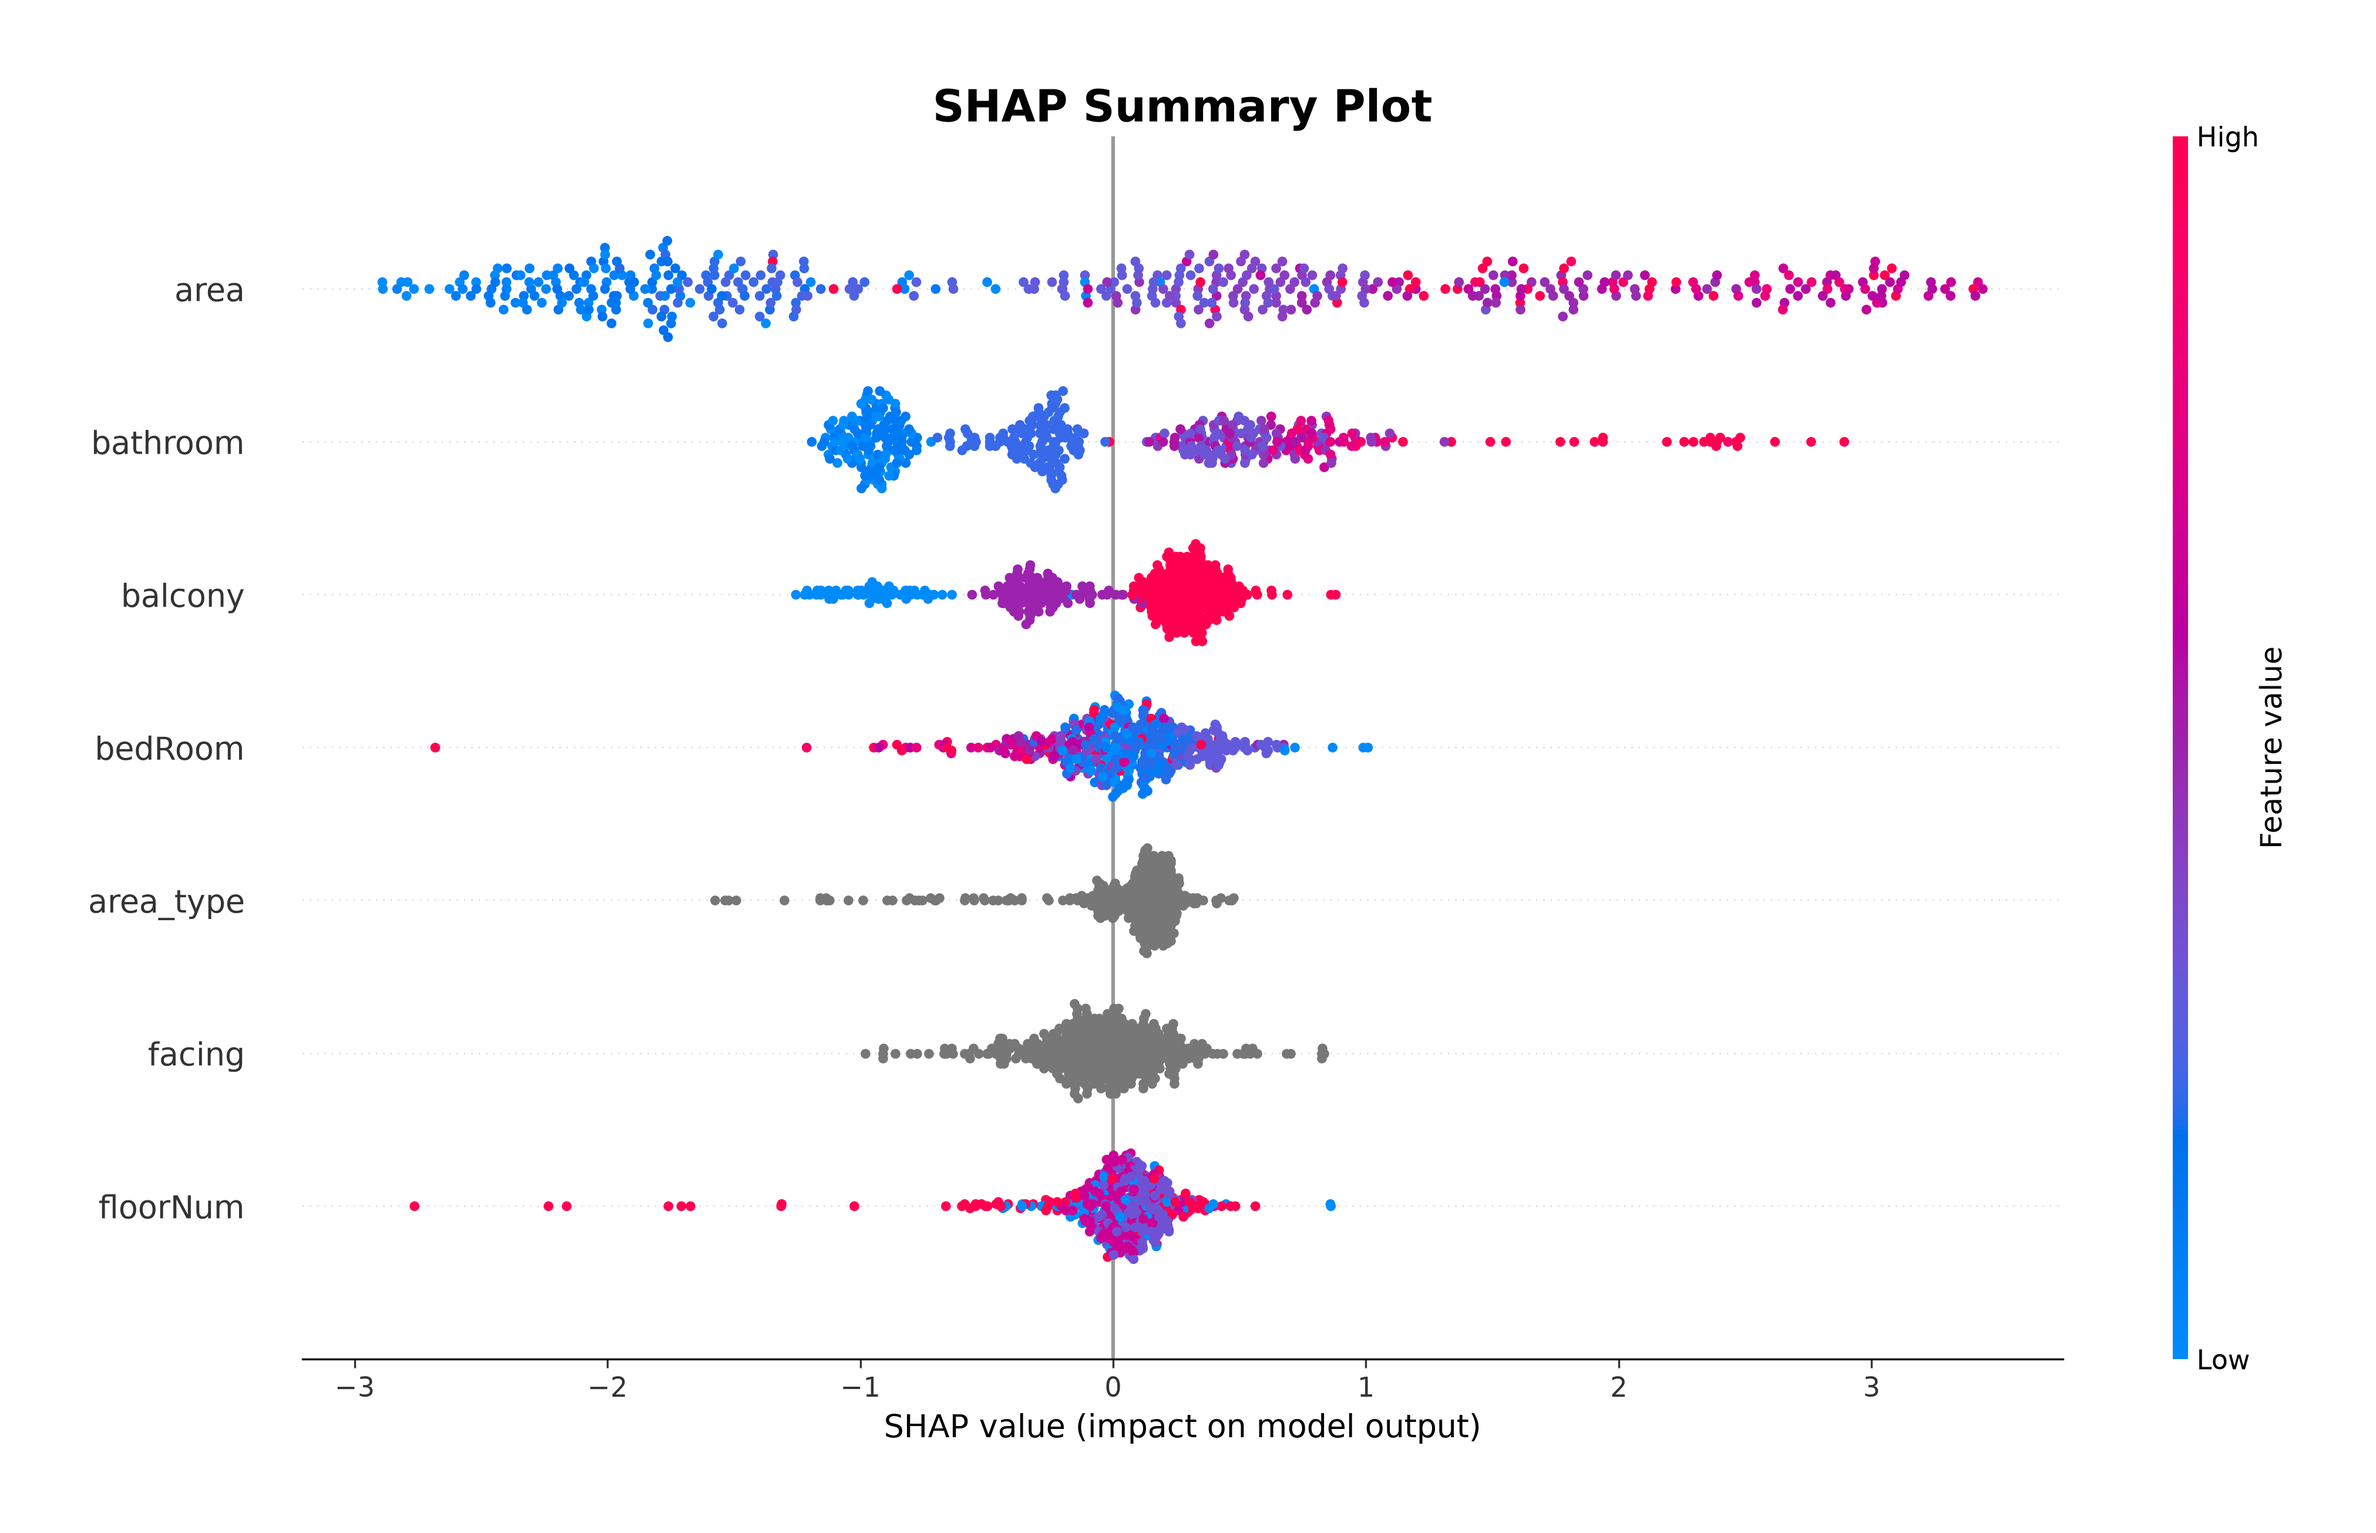
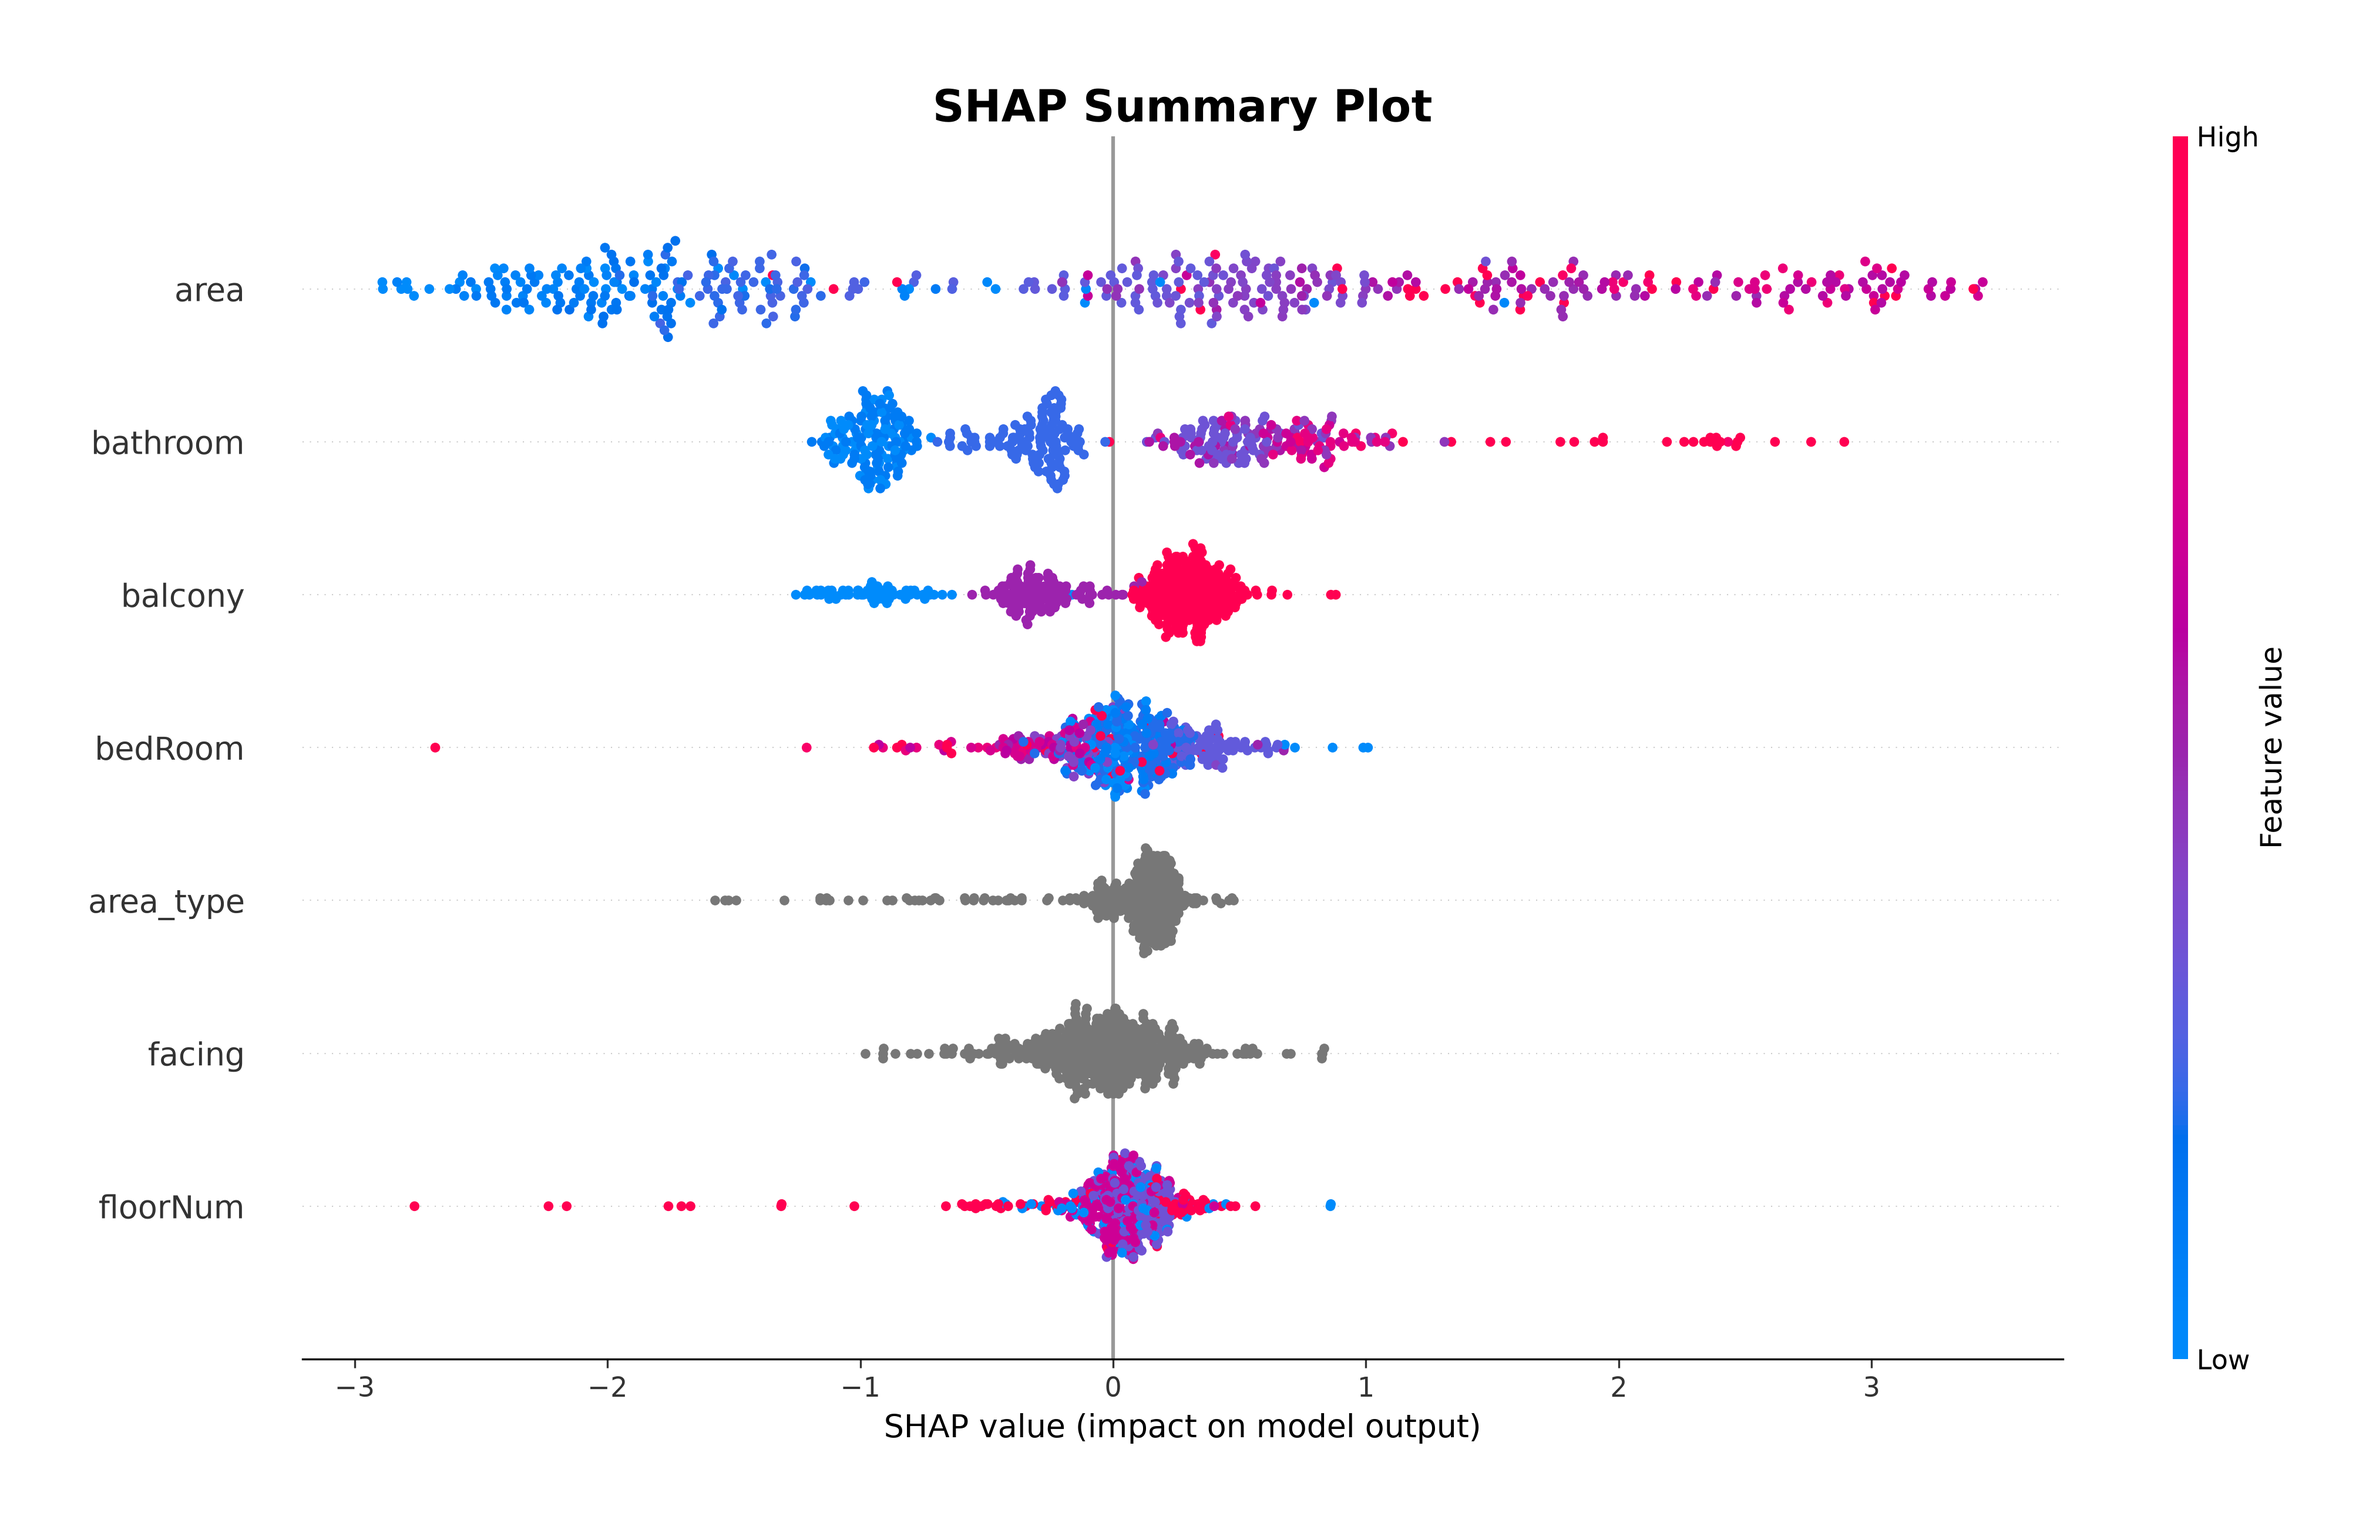
Update Flask app and SHAP visualizations

diff --git a/templates/index.html b/templates/index.html
@@ -51,13 +51,13 @@
 
             width: 92%;
 
-            max-width: 1000px;
+            max-width: 1200px;
 
             margin: 35px auto 50px auto;
 
             background: rgba(255,255,255,0.96);
 
-            padding: 30px;
+            padding: 35px;
 
             border-radius: 20px;
 

diff --git a/app.py b/app.py
@@ -15,10 +15,7 @@ import time
 
 app = Flask(__name__)
 
-
-# ============================================================
 # LOAD MODEL AND SHAP RESOURCES
-# ============================================================
 
 model = pickle.load(
     open("catboost_model.pkl", "rb")
@@ -38,17 +35,11 @@ else:
     background_data = None
 
 
-# ============================================================
 # CREATE SHAP EXPLAINER
-# ============================================================
-
 explainer = shap.TreeExplainer(model)
 
 
-# ============================================================
 # HOME PAGE
-# ============================================================
-
 @app.route("/")
 def home():
 
@@ -57,18 +48,13 @@ def home():
     )
 
 
-# ============================================================
 # PREDICTION ROUTE
-# ============================================================
-
 @app.route("/predict", methods=["POST"])
 def predict():
 
     try:
 
-        # ====================================================
         # 1. GET USER INPUT
-        # ====================================================
 
         area = request.form.get("area")
         bedrooms = request.form.get("bedrooms")
@@ -79,9 +65,7 @@ def predict():
         area_type = request.form.get("area_type")
 
 
-        # ====================================================
         # 2. CHECK EMPTY FIELDS
-        # ====================================================
 
         if not all([
             area,
@@ -99,9 +83,7 @@ def predict():
             )
 
 
-        # ====================================================
         # 3. CONVERT NUMERIC INPUTS
-        # ====================================================
 
         area = float(area)
         bedrooms = int(bedrooms)
@@ -110,9 +92,7 @@ def predict():
         balcony = int(balcony)
 
 
-        # ====================================================
         # 4. VALIDATE INPUT
-        # ====================================================
 
         if (
             area <= 0
@@ -128,9 +108,7 @@ def predict():
             )
 
 
-        # ====================================================
         # 5. CREATE INPUT DATAFRAME
-        # ====================================================
 
         user_df = pd.DataFrame(
             [[
@@ -152,18 +130,17 @@ def predict():
         print("======================================")
 
 
-        # ====================================================
+
         # 6. MODEL PREDICTION
-        # ====================================================
 
         prediction = float(
             model.predict(user_df)[0]
         )
 
 
-        # ====================================================
+       
         # 7. GENERATE SHAP VALUES
-        # ====================================================
+
 
         shap_values = explainer(
             user_df
@@ -176,9 +153,7 @@ def predict():
         )
 
 
-        # ====================================================
         # 8. GENERATE LOCAL SHAP WATERFALL
-        # ====================================================
 
         os.makedirs(
             "static",
@@ -193,17 +168,15 @@ def predict():
             waterfall_filename
         )
 
-
-        # ----------------------------------------------------
         # Close all previous figures
-        # ----------------------------------------------------
+       
 
         plt.close("all")
 
 
-        # ----------------------------------------------------
+       
         # Generate SHAP waterfall
-        # ----------------------------------------------------
+        
 
         shap.plots.waterfall(
             shap_values[0],
@@ -212,17 +185,11 @@ def predict():
         )
 
 
-        # ----------------------------------------------------
         # Get the actual SHAP figure
-        # ----------------------------------------------------
-
         fig = plt.gcf()
 
-
-        # ----------------------------------------------------
         # Improve figure size
-        # ----------------------------------------------------
-
+    
         fig.set_size_inches(
             14,
             8
@@ -231,8 +198,6 @@ def predict():
 
         # ----------------------------------------------------
         # Save plot
-        # ----------------------------------------------------
-
         fig.savefig(
             waterfall_path,
             dpi=300,
